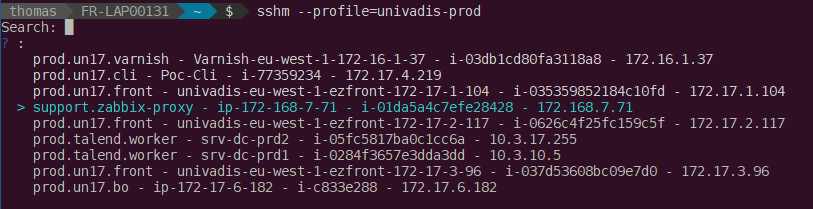
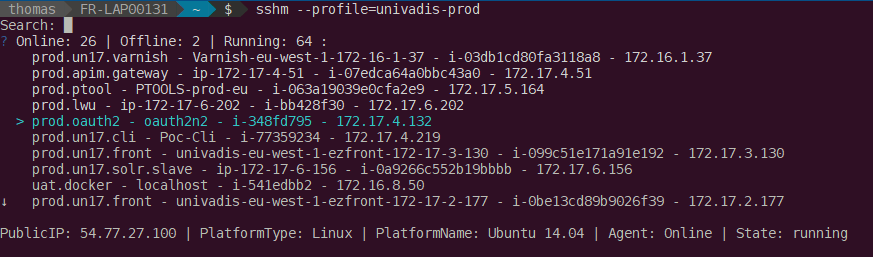
add screenshot + prerequisities in README

Changed region(s): [[0.0, 0.0, 1.0, 0.9474]]

diff --git a/README.md b/README.md
@@ -4,9 +4,13 @@
 
 Easy connect on EC2 instances thanks to AWS System Manager.
 
+## Prerequisites
+
+Install `session-manager-plugin` : https://docs.aws.amazon.com/systems-manager/latest/userguide/session-manager-working-with-install-plugin.html
+
 ## Usage
 
-```
+```bash
 Usage of sshm:
     -profile string
         Profile from ~/.aws/config (default "default")
@@ -19,10 +23,11 @@ You can select your instance by &larr;, &uarr;, &rarr; &darr; and filter by typi
 
 ![screenshot1](./img/screenshot1.png)
 ![screenshot2](./img/screenshot2.png)
+![screenshot3](./img/screenshot3.png)
 
 ## Build
 
-```
+```bash
 go build
 ```
 This repository uses `go mod`, so don't `git clone` inside your `$GOPATH`.
